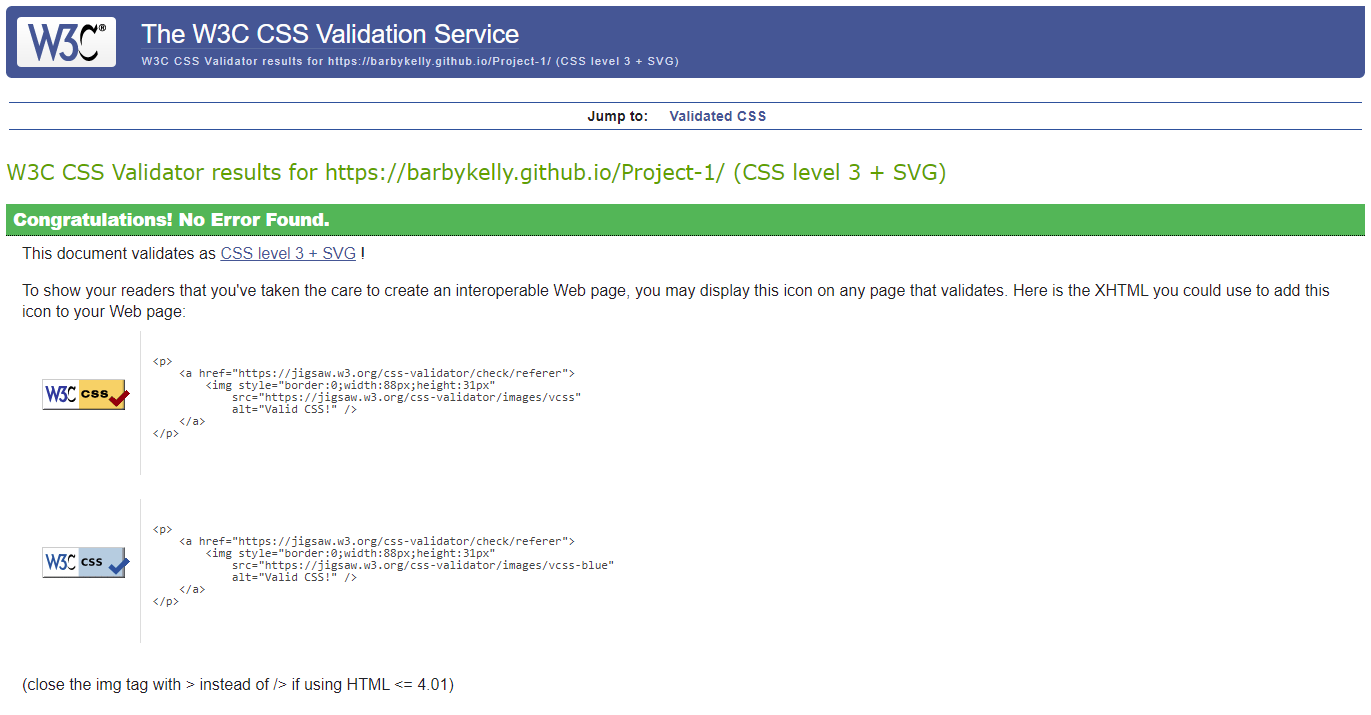
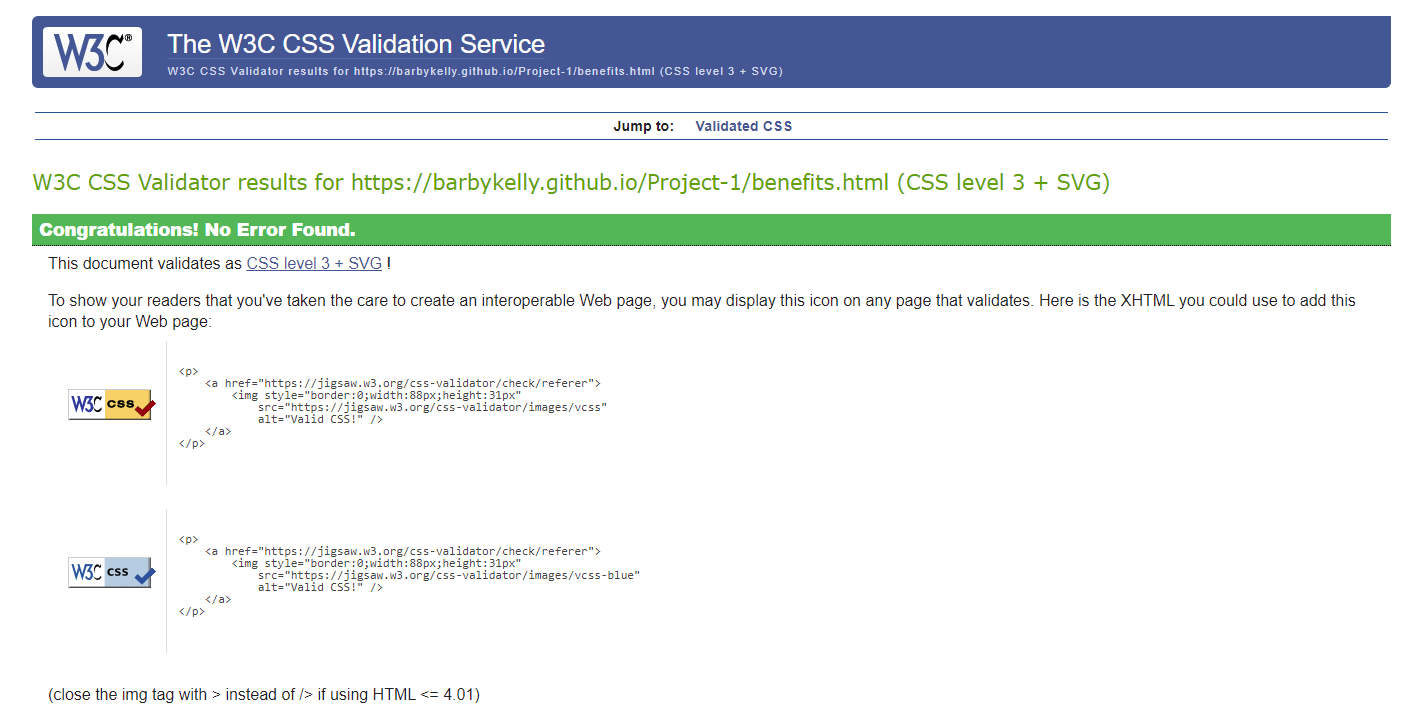
Readme

diff --git a/README.md b/README.md
@@ -105,6 +105,7 @@ https://favicon.io/favicon-converter/
 - add frequency video under energy tools
 Due to unforseen circumstances I was not able to work on the project for some of the days, I made Student Care aware of this. I opted to submit project on the due date
 - Menu items to move to the right where is favicon
+- add a directory for readme
 
 
 ## Testing
@@ -120,18 +121,25 @@ Due to unforseen circumstances I was not able to work on the project for some of
 ![Alt text](responsiveness.png)
 
 
+## Wireframe
+
+- I used pen and paper for my first project.
+![Alt text](<wireframe paper.png>)
 
 ### Validator Testing
 
 - HTML 
-- 
+- https://validator.w3.org/nu/?doc=https%3A%2F%2Fbarbykelly.github.io%2FProject-1%2Fbenefits.html
+- ![Alt text](<html checker.png>)
 
 - CSS 
-- ![Alt text](<CSS Validation.png>)
+- https://jigsaw.w3.org/css-validator/validator?uri=https%3A%2F%2Fbarbykelly.github.io%2FProject-1%2Fbenefits.html&profile=css3svg&usermedium=all&warning=1&vextwarning=&lang=en
+- ![Alt text](<css validation.png>)
 
 
 ### Unfixed Bugs
-- 
+- ![Alt text](<benefits section not ok.png>)
+![Alt text](<html checker-2.png>)
 
 ## Deployment
 
